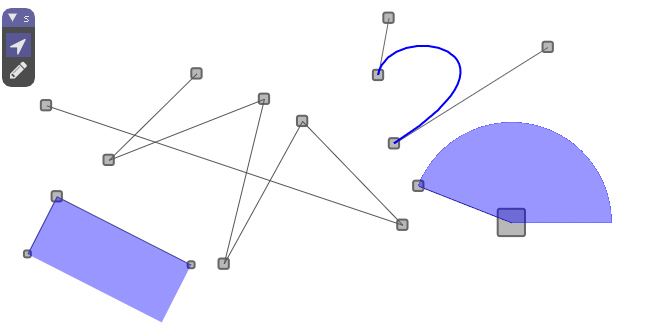
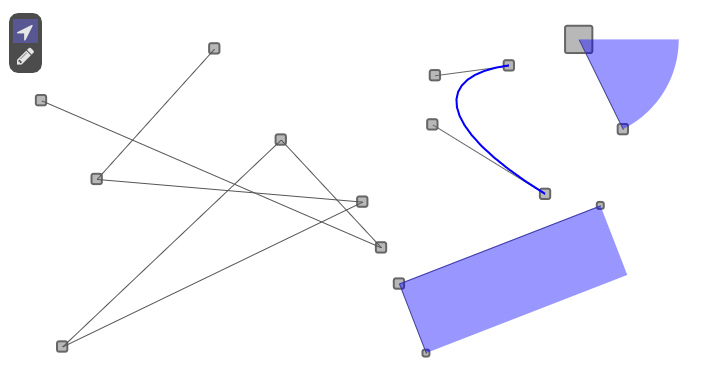
hide toolbar titlebar when vert

diff --git a/gfx_ui.cpp b/gfx_ui.cpp
@@ -362,7 +362,10 @@ namespace ui
         else
             size = ImVec2(iconSize,iconSize*items.length());
         //ImGui::SetNextWindowSize(size);
-        ImGui::Begin(title.c_str(), NULL, size, -1.0f,  ImGuiWindowFlags_NoScrollbar | ImGuiWindowFlags_AlwaysAutoResize );
+        int flags = ImGuiWindowFlags_NoScrollbar | ImGuiWindowFlags_AlwaysAutoResize;
+        if(!horizontal)
+            flags |= ImGuiWindowFlags_NoTitleBar;
+        ImGui::Begin(title.c_str(), NULL, size, -1.0f, flags);
         ImGui::PushID(title.c_str());
         ImGui::PushFont(iconFont);
     
